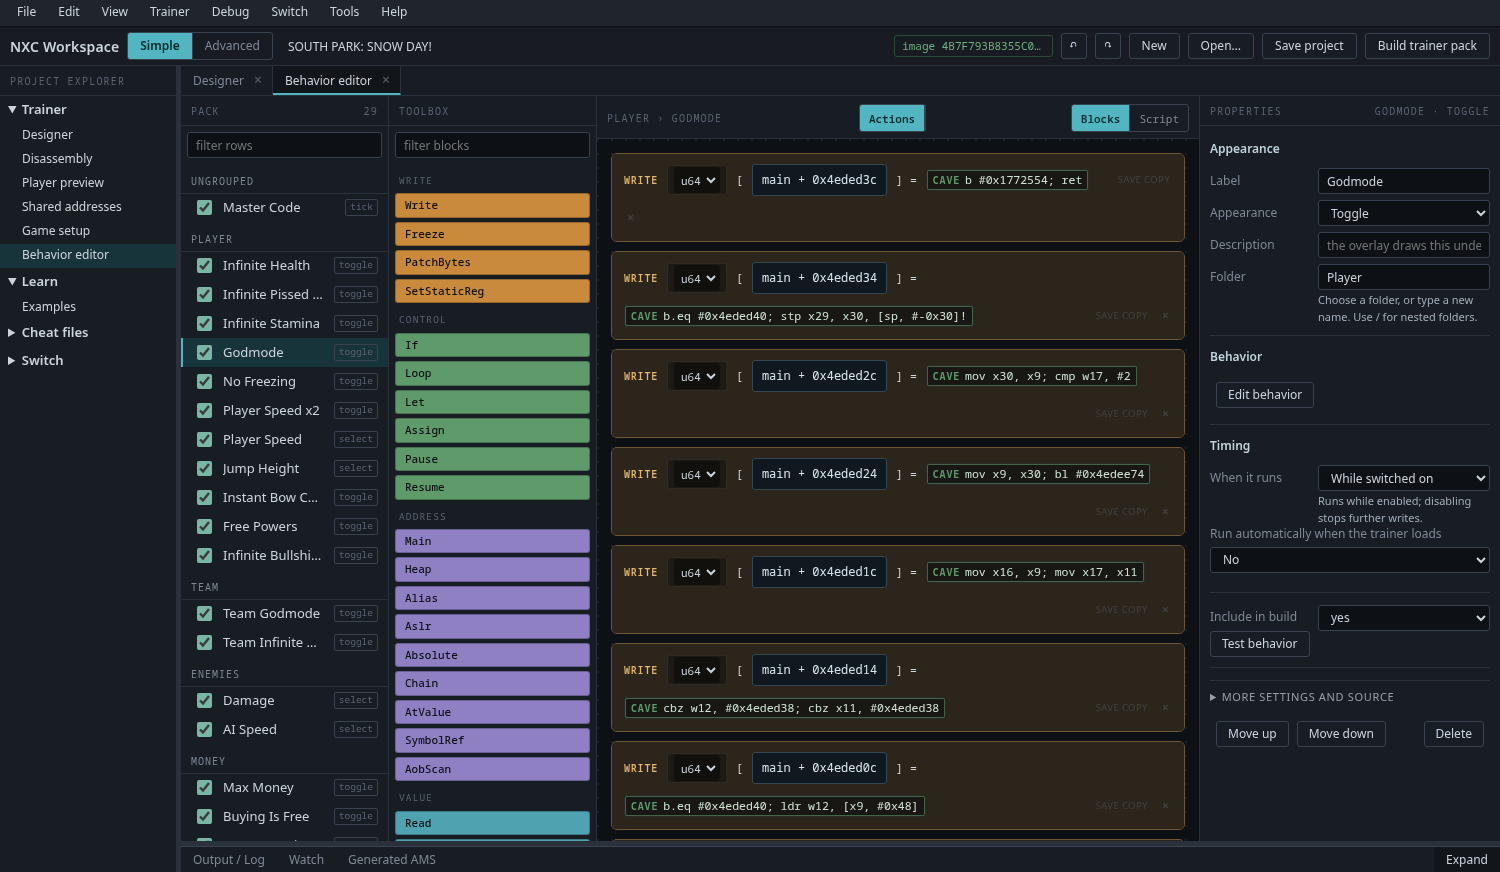
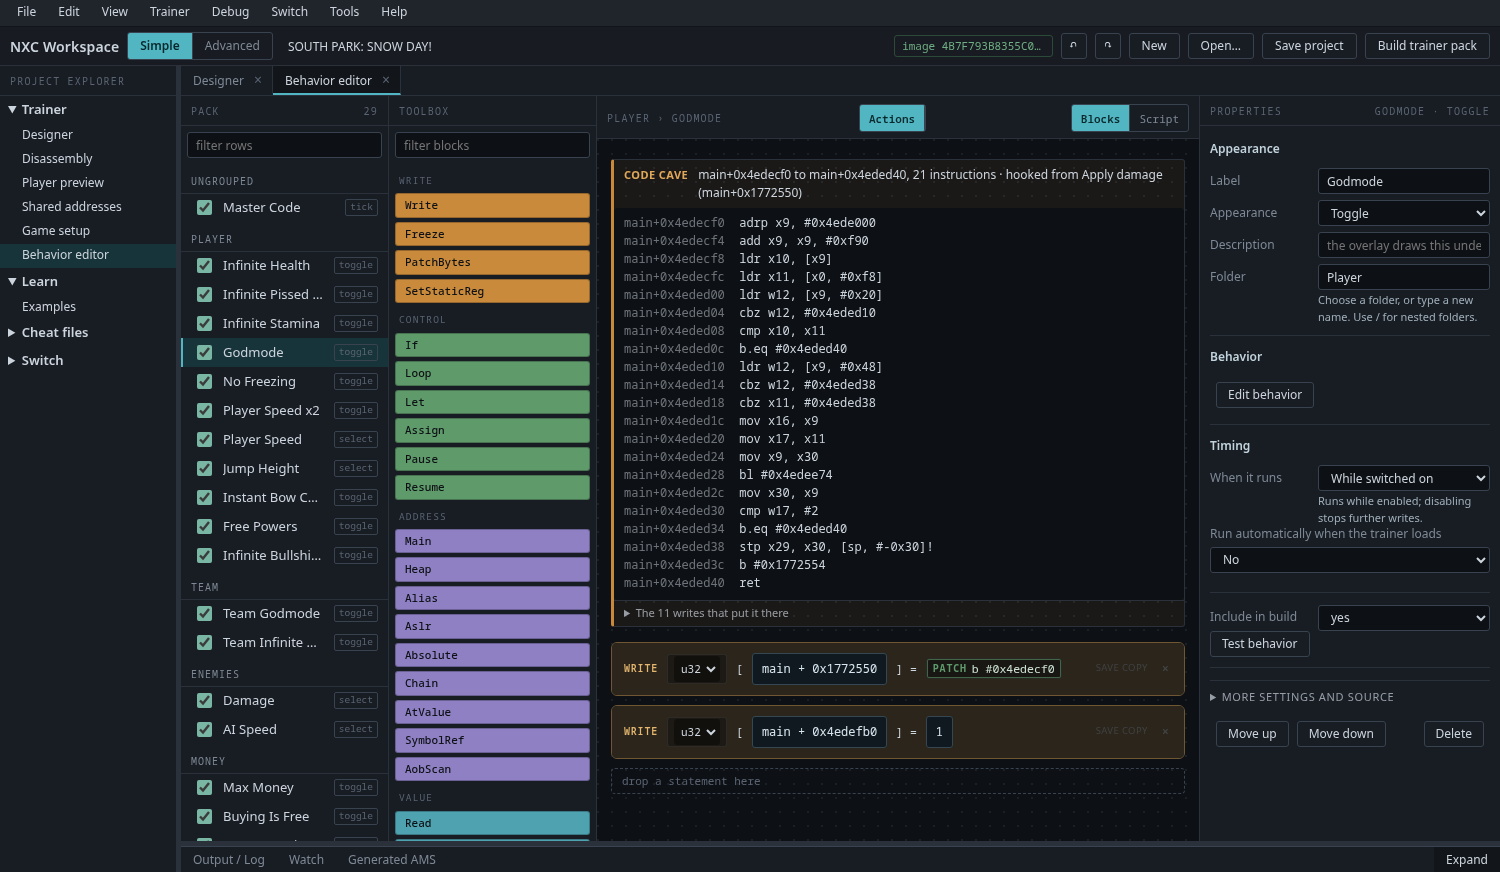
Cave listing screenshot, friendlier README

Changed region(s): [[0.3987, 0.1548, 0.7973, 0.9599]]

diff --git a/README.md b/README.md
@@ -1,86 +1,88 @@
 # NXCLoader
 
-Trainer overlay for Nintendo Switch. It runs under Ultrahand, attaches to the game that is running, and reads a trainer pack (`.nxc`) that matches the game's build ID. The pack describes the menu: toggles, option lists, number entry, hotkeys and actions. Rows change the game's memory and code through Atmosphere's cheat interface.
+A trainer overlay for the Switch. It runs under Ultrahand, hooks into whatever game you have running, and loads a trainer pack (`.nxc`) made for that exact build of the game. The pack is the menu: toggles, dropdowns, number entry, hotkeys, buttons. Flip a row and it changes the game.
 
-This repository has no source. Releases hold the overlay.
+There's no source in this repo. Releases have the overlay.
 
 <img src="images/real-compact-main.jpg" width="480"> <img src="images/real-full-main.jpg" width="480">
 
-South Park: Snow Day!, compact window (left) and full window (right), captured from the console.
+That's South Park: Snow Day!, compact window on the left and the full window on the right, straight off the console.
 
 ## Why I made it
 
-I got tired of the limits Atmosphere's cheat engine puts on a cheat. Real games are not a few values to poke in memory. Most of what I wanted needed code caves, and some needed big ones: telling friend from foe so a damage cheat only hits enemies, scanning memory for a byte pattern at runtime so a cheat survives a game update, calling a function in the game, setting a variable, turning a behaviour on and off while you play. A cheat file can't hold that. The engine caps the code you can have switched on at once at 1,024 dwords (4 KB), one entry at 256 dwords (1 KB), and gives you 16 registers. Go over and it fails without a message.
+I got sick of the limits on Atmosphere's cheat engine. Games aren't a handful of values you poke in memory. Most of what I wanted needed code caves, and a lot of them needed big ones: telling friend from foe so a damage cheat only hits enemies, scanning memory for a byte pattern so a cheat survives a game update, calling a function in the game, setting a variable, turning something on and off while you play.
 
-So NXCLoader runs the code itself. The pack's rows are small programs in a VM that lives in the overlay. They can loop, call each other, follow pointer chains, scan, install a code cave and switch it with a flag. A row can take a number, show a value, offer a list of options, wait on buttons, and put things back when you switch it off.
+A cheat file can't hold any of that. The engine gives you 1,024 dwords (4 KB) of code for everything you have switched on, 256 dwords (1 KB) per entry, and 16 registers. Go over and it just fails. No error, the cheat does nothing.
+
+So NXCLoader runs the code itself. Each row in a pack is a little program in a VM that lives in the overlay. It can loop, call other functions, follow pointer chains, scan memory, and drop in a code cave and switch it with a flag. A row can take a number, show you a value, give you a list of options, wait on buttons, and put things back when you turn it off.
 
 | | Atmosphere cheat engine | NXCLoader pack |
 |---|---|---|
-| Code on at once | 1,024 dwords (4 KB) in total | no shared cap, each run has its own budget (up to 1,048,576 instructions) |
-| One entry | 256 dwords (1 KB) | one function, up to the same budget |
+| Code on at once | 1,024 dwords (4 KB) total | no shared cap, each run gets its own budget (up to 1,048,576 instructions) |
+| One entry | 256 dwords (1 KB) | one function, same budget |
 | Registers | 16 | 64 |
-| Entries in a file | 128 | 512 menu nodes, 256 functions, 256 code patches |
-| Frozen addresses | 128 | no fixed list, freezes are rows |
+| Size of a set | 128 entries | 512 menu rows, 256 functions, 256 code patches |
+| Frozen addresses | 128 | no list, a freeze is just a row |
 | Byte pattern scan | no | yes, up to 64 patterns per pack |
 | File size | small text file | up to 8 MB |
-| Row controls | on or off | toggle, option list, slider, number entry, action, readouts, hotkeys |
-| Switching off | stops the cheat running, what it wrote stays | rows can write the original back |
-| Errors | none, the cheat does nothing | the row shows STOP and the Faults list says why |
+| Row controls | on or off | toggle, dropdown, slider, number entry, button, readouts, hotkeys |
+| Turning off | stops the cheat, whatever it wrote stays in the game | a row can write the original back |
+| Errors | none | the row shows STOP and Faults tells you why |
 
-Memory is still read and written through dmnt, so Atmosphere and the game's files are not modified.
+It still reads and writes the game through dmnt, so nothing on your Atmosphere or in the game's files gets touched.
 
 ## Install
 
-1. Download the zip from [Releases](https://github.com/bad1dea/NXCLoader/releases/latest) and unzip it onto the SD card. It holds one file, `switch/.overlays/NXCLoader.ovl`.
+1. Grab the zip from [Releases](https://github.com/bad1dea/NXCLoader/releases/latest) and unzip it onto your SD card. It's one file: `switch/.overlays/NXCLoader.ovl`.
 2. Put the pack for your game at `atmosphere/contents/<title ID>/cheats/<build ID>.nxc`.
-3. Start the game, press L3+R3, or open NXCLoader from the Ultrahand list.
+3. Start the game, press L3+R3 (or pick NXCLoader from the Ultrahand list).
 
-Needs Atmosphere with cheats enabled, and Ultrahand.
+You need Atmosphere with cheats on, and Ultrahand.
 
-A pack is read when the overlay attaches. After replacing a pack, restart the game and reopen the overlay.
+The overlay reads the pack when it hooks in, so if you swap a pack, restart the game and open the overlay again.
 
-## Hotkeys
+## Buttons
 
-| Buttons | Where | |
+| Buttons | | |
 |---|---|---|
-| L3+R3 | anywhere | Opens NXCLoader. This is the default. Ultrahand stores it per overlay, and you can change it under Open hotkey in the full window. It takes effect at the next start. |
+| L3+R3 | anywhere | Opens NXCLoader. That's the default. It's Ultrahand's per-overlay combo, so change it under Open hotkey in the full window (takes effect next time you start it) |
 | Up, Down | in the overlay | Move the cursor |
-| A | in the overlay | Open a folder, switch a toggle, run an action, step an option list, open number entry |
-| Left, Right | in the overlay | Step an option list, slider or number; on other rows, turn the page |
-| L, R | compact window | Turn the page |
-| B | in the overlay | Up a level; on the first page, close |
+| A | in the overlay | Open a folder, flip a toggle, run a button, step a dropdown, open number entry |
+| Left, Right | in the overlay | Step a dropdown, slider or number. On any other row they flip the page |
+| L, R | compact window | Flip the page |
+| B | in the overlay | Back a level. On the first page it closes the overlay |
 
-Rows can have their own hotkey. Its buttons are drawn as glyphs before the label (Save Coordinates and Teleport to Saved Coordinates in the Snow Day pack do), and the row under it, "change buttons", lets you hold a different combination. Row hotkeys are read while the overlay is open, hidden or pinned.
+Some rows have their own hotkey. You'll see the button glyphs in front of the name (Save Coordinates and Teleport to Saved Coordinates in the Snow Day pack have them). The "change buttons" row under it lets you hold down a different combo. Row hotkeys work while the overlay is open, hidden or pinned.
 
 ## Using it
 
-1. Open the overlay with the game running. With a pack loaded it opens the compact window. With no pack it opens the full window, which says why: no game, no pack for this build ID, or the build IDs it does have a pack for.
-2. Open a folder with A. Toggles show ON or OFF. Option lists show `< value >` when the cursor is on them.
-3. Switch rows on. The game changes straight away.
-4. To keep playing with the overlay out of the way, pick Pin over the game. It hands the buttons to the game and leaves a small read-only list on screen: the rows that are on and any readouts the pack has, such as HP or gold. Press the open combo to bring the menu back.
-5. Turn all off switches off everything that can reverse itself and tells you how many it switched off and how many cannot be undone.
+1. Open the overlay with the game running. With a pack loaded you get the compact window. With no pack you get the full window, which tells you why: no game, no pack for this build ID, or which build IDs it does have packs for.
+2. Open a folder with A. Toggles say ON or OFF, and dropdowns show `< value >` when the cursor is on them.
+3. Flip rows on. The game changes right away.
+4. Want to play with it out of the way? Pick "Pin over the game". It hands the buttons back to the game and leaves a small list on screen with what's on plus any readouts the pack has (HP, gold). Press the open combo to get the menu back.
+5. "Turn all off" switches off everything that can undo itself, and tells you how many it turned off and how many can't be undone.
 
-The first page of the compact window ends with Pin over the game, Turn all off, Full window and Exit. Exit closes the overlay and returns to Ultrahand.
+The first page of the compact window ends with Pin over the game, Turn all off, Full window and Exit. Exit closes the overlay and sends you back to Ultrahand.
 
-Rows that keep running while you play (held-button rows, readouts) run on the overlay. They keep going while it is open, hidden or pinned and stop when you exit. Rows that patch the game's code keep working after it closes.
+Rows that keep running while you play (held-button rows, readouts) run from the overlay. They keep going while it's open, hidden or pinned, and stop when you exit. Rows that patch the game's code keep working after you close it.
 
-If an Atmosphere `.txt` cheat file for the game is on the card or loaded, the overlay shows a warning and lists those cheats in an Atmosphere cheats section with Turn all on and Turn all off. A pack and a `.txt` set for the same game can write the same sites. Whichever writes last wins, and they share the game's small amount of unused code space, so use one or the other.
+If there's an Atmosphere `.txt` cheat file for the game on the card or loaded, the overlay warns you and lists those cheats under Atmosphere cheats, with Turn all on and Turn all off. A pack and a `.txt` set for the same game can write the same spots, and whoever writes last wins. They also fight over the little bit of free code space in the game, so use one or the other.
 
 ## Full window
 
-The full window shows the pack's folders, then the overlay's own sections.
+The full window has the pack's folders first, then the overlay's own sections.
 
 <table><tr><td align="center"><img src="images/real-full-main.jpg" width="480"><br>Main</td><td align="center"><img src="images/real-full-player.jpg" width="480"><br>Player</td></tr><tr><td align="center"><img src="images/real-full-team.jpg" width="480"><br>Team</td><td align="center"><img src="images/real-full-enemies.jpg" width="480"><br>Enemies</td></tr></table>
 
 <table><tr><td align="center"><img src="images/real-full-money.jpg" width="480"><br>Money</td><td align="center"><img src="images/real-full-cards.jpg" width="480"><br>Cards</td></tr><tr><td align="center"><img src="images/real-full-world.jpg" width="480"><br>World</td><td align="center"><img src="images/real-full-coordinates.jpg" width="480"><br>Coordinates</td></tr></table>
 
-This session has On now, Turn all off, Faults (when a row has stopped), Save state and Load saved state. Save state records which rows are on and Load saved state switches them on again. Settings has Compact window, Open hotkey, Trainer info and Exit.
+This session has On now, Turn all off, Faults (shows up when a row has stopped), Save state and Load saved state. Save state remembers which rows are on, and Load saved state turns them back on. Settings has Compact window, Open hotkey, Trainer info and Exit.
 
 <table><tr><td align="center"><img src="images/real-full-session.jpg" width="480"><br>This session</td><td align="center"><img src="images/real-full-settings.jpg" width="480"><br>Settings</td></tr></table>
 
 ## Compact window mockups
 
-Every folder of four packs, rendered from each pack's menu data with the Designer's compact view. These are mockups, not photos.
+Every folder from four packs, drawn from each pack's menu data with the Designer's compact view. These are mockups, not photos.
 
 <details open>
 <summary>South Park: Snow Day!</summary>
@@ -129,63 +131,59 @@ Every folder of four packs, rendered from each pack's menu data with the Designe
 
 ## How a pack works
 
-A pack is one file keyed to a build ID. The overlay refuses a pack made for a different build.
+A pack is one file for one build of a game. If the build doesn't match, the overlay won't load it.
 
-The menu is a tree of folders and rows. Each row carries a program: read or write an address, compare, loop, call, follow a pointer chain, scan for a byte pattern. The overlay runs it against the game when you change the row. Rows that need new code in the game, such as a hook that scales damage only for enemies, install it into a code cave and switch it with a flag word, so switching the row off stops it without a restart.
+The menu is a tree of folders and rows, and each row carries a program: read or write an address, compare, loop, call, follow a pointer chain, scan for a byte pattern. The overlay runs it against the game when you change the row. Rows that need new code in the game, like a hook that scales damage for enemies only, put it in a code cave and switch it with a flag word. Turning the row off just clears the flag, so there's no restart.
 
 ## Making packs
 
-Designer is a browser editor for packs. Not released yet, and a guide to writing a pack will come with it. These screenshots show the South Park: Snow Day! project open in it.
+Designer is a browser editor for packs, and a guide to writing them comes with it. It's not out yet. Here's the Snow Day project open in it.
 
-The control list on the left, the pack's menu in the middle and the selected control's properties on the right. Each control has a label, a kind (toggle, dropdown, number, slider, readout, button), a folder, and the behavior that runs when it changes.
+Controls on the left, the pack's menu in the middle, and the selected control's settings on the right. Every control has a label, a kind (toggle, dropdown, number, slider, readout, button), a folder, and the behavior that runs when it changes.
 
 <img src="images/designer-controls.png" width="800">
 
-A dropdown row, with its option list and what switching it Off does.
+A dropdown row, with its options and what Off does.
 
 <img src="images/designer-dropdown.png" width="800">
 
-Player preview draws the pack as the overlay would, with the same rows and folders.
+Player preview draws the pack the way the overlay will, same rows and folders.
 
 <img src="images/designer-player-preview.png" width="800">
 
-Behaviors are built from blocks (write, freeze, compare, loop, call) or written as script. The next section shows one in both forms.
+Behaviors are built from blocks (write, freeze, compare, loop, call) or you can type them as script.
 
 <img src="images/designer-behavior-blocks.png" width="800">
 
-Examples walks through common cases, such as freezing a value or hooking an instruction, with the finished behavior for each.
+Examples walks you through the usual cases, like freezing a value or hooking an instruction, with the finished behavior for each.
 
 <img src="images/designer-examples.png" width="800">
 
 ## What a behavior looks like
 
-A plain row is one line of script. This freezes a value (the address is an example):
+Simple ones are a single line. This freezes a value (the address is made up):
 
 ```
 freeze u32[main+0x4a1b20] = 999
 ```
 
-Godmode in the Snow Day pack is not a value. It hooks the game's apply-damage function and decides per hit. Here it is in Designer as blocks: each block writes one word of the cave into the game, and the cave's assembly is shown on it.
+Godmode in the Snow Day pack is a real code cave. It hooks the game's apply-damage function and decides on every hit. This is how Designer shows it: the whole cave as one listing, with the hook it's attached to on top.
 
 <img src="images/designer-blocks-godmode.png" width="800">
 
-The same behavior as script. Each line is a write; the last two patch the hook (`main+0x1772550` becomes a branch to the cave) and set the row's flag word.
-
-<img src="images/designer-script-godmode.png" width="800">
-
-The cave itself, as written in the pack's generator. `X9` points at a small table of words in the cave arena. Master code refreshes it every poll with the player's body pointer and team, and each row writes its own flag word there, so switching Godmode off is one store and the hook stays harmless.
+And this is the cave as I wrote it. `X9` points at a small table of words that master code refills every poll with the player's body and team. Each row sets its own flag word in that table, so turning Godmode off is one store and the hook stays harmless.
 
 ```asm
     ; hooked at main+0x1772550, replacing STP X29, X30, [SP, #-0x30]!
         adr  X9, table
-        LDR  X10, [X9, #BODY]          ; player's body
-        LDR  X11, [X0, #0xF8]          ; body this hit lands on
-        LDR  W12, [X9, #god]           ; Godmode flag word
+        LDR  X10, [X9, #BODY]          ; the player's body
+        LDR  X11, [X0, #0xF8]          ; the body this hit lands on
+        LDR  W12, [X9, #god]           ; Godmode flag
         CBZ  W12, team
         CMP  X10, X11
-        B.EQ skip                      ; the player is hit: drop it
+        B.EQ skip                      ; it's the player: throw the hit away
     team:
-        LDR  W12, [X9, #teamgod]       ; Team Godmode flag word
+        LDR  W12, [X9, #teamgod]       ; Team Godmode flag
         CBZ  W12, run
         CBZ  X11, run
         MOV  X16, X9
@@ -194,15 +192,15 @@ The cave itself, as written in the pack's generator. `X9` points at a small tabl
         BL   side                      ; friend or foe, below
         MOV  X30, X9
         CMP  W17, #2
-        B.EQ skip                      ; on the player's side: drop it
+        B.EQ skip                      ; on the player's side: throw it away
     run:
         STP  X29, X30, [SP, #-0x30]!   ; the instruction the hook replaced
-        B    back                      ; continue in the game
+        B    back                      ; carry on in the game
     skip:
         RET
 ```
 
-Friend or foe is a helper that other rows call, so Damage multipliers and AI Speed only touch enemies. It checks the body's vtable, then walks the body's team's enemy list for the player's team class. W17 comes back 0 for not a body, 1 for an enemy, 2 for anyone else on the player's side.
+Friend or foe is its own helper so other rows can use it too. Damage multipliers and AI Speed only touch enemies because of it. It checks the thing is a body, then looks through that body's team for the player's team in its enemy list. W17 comes back 0 for "not a body", 1 for an enemy, 2 for anyone on the player's side.
 
 ```asm
         LDR  X3, [X17]
@@ -210,21 +208,21 @@ Friend or foe is a helper that other rows call, so Damage multipliers and AI Spe
         CMP  X3, X4
         B.NE none                      ; not a body at all
         LDR  X3, [X17, #PAWN_TEAM]
-        LDR  X4, [X16, #TEAM]          ; player's team
+        LDR  X4, [X16, #TEAM]          ; the player's team
         CBZ  X3, ours
         CBZ  X4, ours
         CMP  X3, X4
-        B.EQ ours                      ; same team object
-        LDR  X4, [X4, #0x10]           ; player's team class
+        B.EQ ours                      ; same team
+        LDR  X4, [X4, #0x10]           ; the player's team class
         LDR  X5, [X3, #ENEMY_TEAMS]    ; this team's enemy list
-        LDRSW X6, [X3, #ENEMY_TEAMS+8] ; and its count
+        LDRSW X6, [X3, #ENEMY_TEAMS+8] ; and how many are in it
     scan:
         CBZ  X6, ours
         SUB  X6, X6, #1
         LDR  X12, [X5, X6, LSL #3]
         CMP  X12, X4
         B.NE scan
-        MOV  W17, #1                   ; the player's class is in its enemy list
+        MOV  W17, #1                   ; player's class is in its enemy list: foe
         RET
     ours:
         MOV  W17, #2
@@ -234,7 +232,7 @@ Friend or foe is a helper that other rows call, so Damage multipliers and AI Spe
         RET
 ```
 
-Caves are assembled by the pack's generator and checked by running them in an emulator before they ship, with the flag word on and off, so a cave that changes anything with its word off fails the build.
+Every cave gets run in an emulator before it ships, with its flag on and off, so one that changes something while its flag is off gets caught.
 
 ## Releases
 
